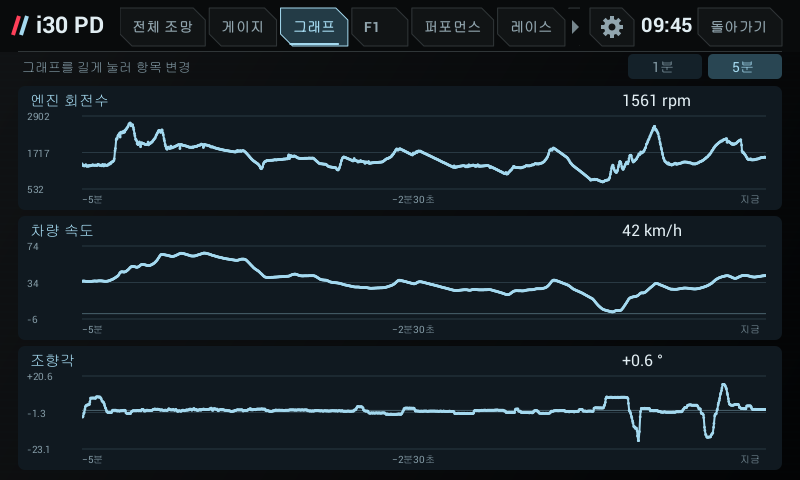
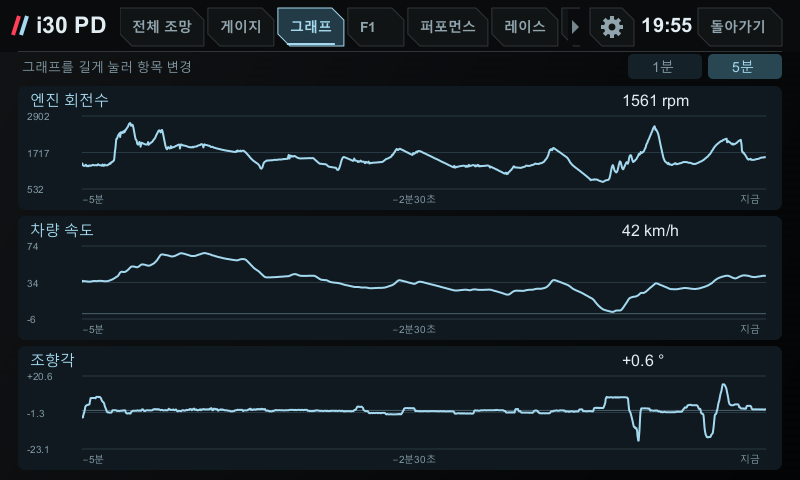
Lighter frames: no dot per graph sample, formatted numbers reused, 기록 at 10 frames a second
- 그래프: a dot only where a stretch of the line starts (a lone sample). One per sample was about 720 circles a
  frame; the line already shows them. Measured with a counting canvas over a real drive: 722 -> 3 circles a frame.
- Telemetry.format keeps the last strings (1,024 slots, format + value): a number that has not changed is not
  formatted again. String.format's garbage is what the head unit's old collector pauses for.
- 기록 redraws 10 times a second instead of 20: its only moving part is a timer in tenths.
- Every other screen is pixel-identical before and after (preview BodyDiff; the rest of its diffs are the clock).

diff --git a/shared/src/com/veloster/vehicle/Telemetry.java b/shared/src/com/veloster/vehicle/Telemetry.java
@@ -52,7 +52,16 @@ public final class Telemetry {
     public static float displayValue(int signal,float raw){return signal==STEERING?(raw==0?0:-raw):signal==7?raw*speedScale:raw;}
     /** String.format(Locale.US,f,x), but a value that rounds to zero loses its minus: idle boost -0.004 reads 0.00
      * (+0.00 under a '+' flag), not -0.00. */
+    /** One formatted number, kept: most numbers on screen are formatted again every frame with the value unchanged, and
+     *  String.format allocates a Formatter and several strings each time (garbage the head unit's old collector pauses for). */
+    private static final class Fmt{final String f,s;final int bits;Fmt(String f,int bits,String s){this.f=f;this.bits=bits;this.s=s;}}
+    private static final Fmt[] FMT=new Fmt[1024];   // direct-mapped; an entry is immutable, so a race only costs a miss
     public static String format(String f,float x){
+        int bits=Float.floatToIntBits(x),at=(f.hashCode()*31+bits*0x9E3779B1>>>12)&1023;Fmt e=FMT[at];
+        if(e!=null&&e.bits==bits&&(e.f==f||e.f.equals(f)))return e.s;
+        String s=format0(f,x);FMT[at]=new Fmt(f,bits,s);return s;
+    }
+    private static String format0(String f,float x){
         String s=String.format(java.util.Locale.US,f,x);
         if(s.length()<2||s.charAt(0)!='-'||s.charAt(1)!='0')return s;
         // A character scan, not a regex: this runs for most numbers on screen every frame (String.matches compiles a Pattern per call).

diff --git a/shared/src/com/veloster/vehicle/GraphRenderer.java b/shared/src/com/veloster/vehicle/GraphRenderer.java
@@ -51,8 +51,9 @@ public final class GraphRenderer {
             if(!series.valid[i]){connected=false;continue;}
             float v=Telemetry.displayValue(signal,series.values[i]);
             float x=right-(now-series.times[i])*(right-left)/layout.window(),y=bottom-(v-lo)/(hi-lo)*(bottom-plotTop);
-            if(!connected||series.breakBefore[i]||series.times[i]-previous>2000)path.moveTo(x,y);else path.lineTo(x,y);
-            connected=true;previous=series.times[i];p.setStyle(Paint.Style.FILL);p.setColor(T(BLUE));c.drawCircle(x,y,1.4f,p);
+            // a dot only where a stretch starts (a lone sample has no line): one per sample was about 720 circles a frame
+            if(!connected||series.breakBefore[i]||series.times[i]-previous>2000){path.moveTo(x,y);p.setStyle(Paint.Style.FILL);p.setColor(T(BLUE));c.drawCircle(x,y,1.4f,p);}else path.lineTo(x,y);
+            connected=true;previous=series.times[i];
         }
         p.setStyle(Paint.Style.STROKE);p.setColor(T(BLUE));p.setStrokeWidth(2);c.drawPath(path,p);p.setStyle(Paint.Style.FILL);c.restoreToCount(saved);
     }

diff --git a/shared/src/com/veloster/vehicle/VehicleDash.java b/shared/src/com/veloster/vehicle/VehicleDash.java
@@ -328,6 +328,7 @@ public final class VehicleDash extends View implements Runnable {
             if(graphs)delay=250;
             else if(symmetric&&page==PitRenderer.PAGE_PERFORMANCE&&lap.state()==LapTimer.RUNNING)delay=33;
             else if(symmetric&&page==PitRenderer.PAGE_ECO)delay=EcoCluster.animating||EcoCluster.holding?40:250;   // 25 frames a second while anything moves; still: 4
+            else if(symmetric&&page==PitRenderer.PAGE_RECORDS)delay=100;   // the live run timer shows tenths; nothing else moves
             else if(symmetric&&page>=PitRenderer.PAGE_RACE)delay=50;  // shift blink, upshift pop, live run timers
             else if(!(cluster&&media&&!gauges) && mediaState.snapshot(now).notice)delay=16;
             if(introStart>0&&now-introStart<1500)delay=Math.min(delay,33);   // smooth the welcome sweep
